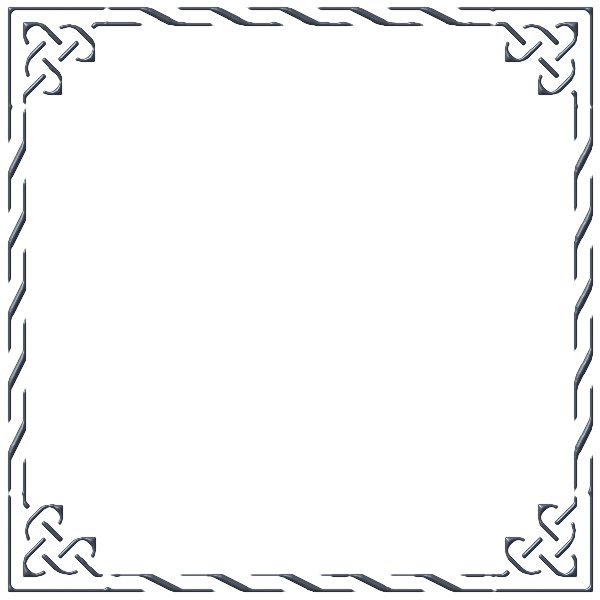
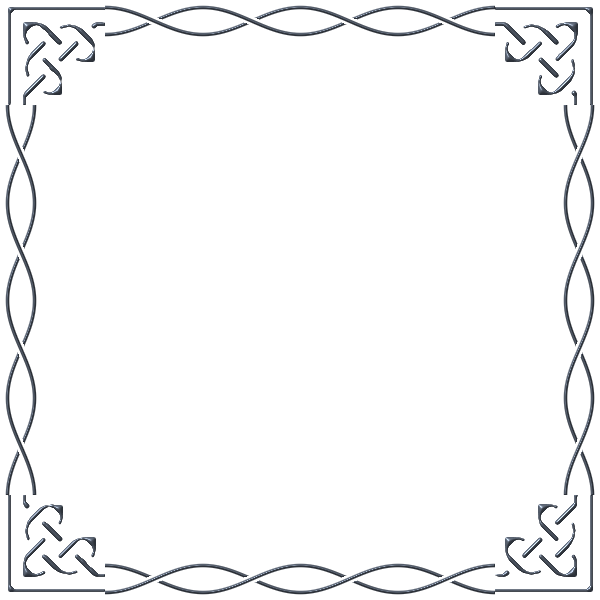
v7.86: applicato stile cornice a fili sottili e metalli realistici a tutte le cornici

diff --git a/index.html b/index.html
@@ -1193,8 +1193,8 @@ html.is-ios-standalone .header {
   background:
     radial-gradient(ellipse at 50% 30%, rgba(42, 48, 58, 0.16) 0%, rgba(16, 18, 22, 0.10) 55%, transparent 82%),
     linear-gradient(170deg, #101114 0%, #08080a 55%, #0c0d0f 100%);
-  border: 10px solid transparent;
-  border-image: url("img/cornice_ferro.png?v=7.85") 105 / 16px round;
+  border: 12px solid transparent;
+  border-image: url("img/cornice_ferro.png?v=7.86") 105 / 24px stretch;
   border-radius: 2px;
   padding: 13px 12px;
   margin-bottom: 0;
@@ -1463,8 +1463,8 @@ html.is-ios-standalone .header {
   background:
     radial-gradient(ellipse at 50% 34%, rgba(74, 54, 14, 0.18) 0%, rgba(22, 16, 6, 0.10) 55%, transparent 82%),
     linear-gradient(170deg, #100d08 0%, #080705 55%, #0c0a06 100%);
-  border: 10px solid transparent;
-  border-image: url("img/cornice_oro.png?v=7.85") 105 / 16px round;
+  border: 12px solid transparent;
+  border-image: url("img/cornice_oro.png?v=7.86") 105 / 24px stretch;
   border-radius: 2px;
   box-shadow: 0 12px 32px rgba(0, 0, 0, 0.75), 0 0 18px rgba(212, 160, 23, 0.08);
   color: var(--text);
@@ -1475,8 +1475,8 @@ html.is-ios-standalone .header {
   background:
     radial-gradient(ellipse at 50% 34%, rgba(74, 18, 16, 0.18) 0%, rgba(24, 8, 8, 0.10) 55%, transparent 82%),
     linear-gradient(170deg, #110a09 0%, #080605 55%, #0d0807 100%);
-  border: 10px solid transparent;
-  border-image: url("img/cornice_rosso.png?v=7.85") 105 / 16px round;
+  border: 12px solid transparent;
+  border-image: url("img/cornice_rosso.png?v=7.86") 105 / 24px stretch;
   border-radius: 2px;
   box-shadow: 0 12px 32px rgba(0, 0, 0, 0.75), 0 0 18px rgba(196, 62, 54, 0.08);
   color: var(--text);
@@ -2424,7 +2424,7 @@ dialog.mk-dialog::backdrop {
     radial-gradient(ellipse at 50% 34%, rgba(56, 32, 16, 0.16) 0%, rgba(20, 12, 8, 0.10) 52%, transparent 80%),
     linear-gradient(170deg, #0e0b08 0%, #070605 55%, #0a0806 100%);
   border: 12px solid transparent;
-  border-image: url("img/cornice_bronzo.png?v=7.85") 105 / 24px stretch;
+  border-image: url("img/cornice_bronzo.png?v=7.86") 105 / 24px stretch;
   border-radius: 2px;
   box-shadow:
     0 24px 64px rgba(0, 0, 0, 0.94),

diff --git a/js/data.js b/js/data.js
@@ -5,7 +5,7 @@
  ============================================================ */
 
 /* ── App info ── */
-export const APP_VERSION = "7.85";
+export const APP_VERSION = "7.86";
 export const APP_RELEASE = "28/11/2026";
 export const APP_DEV = "djiglio.ai";
 
